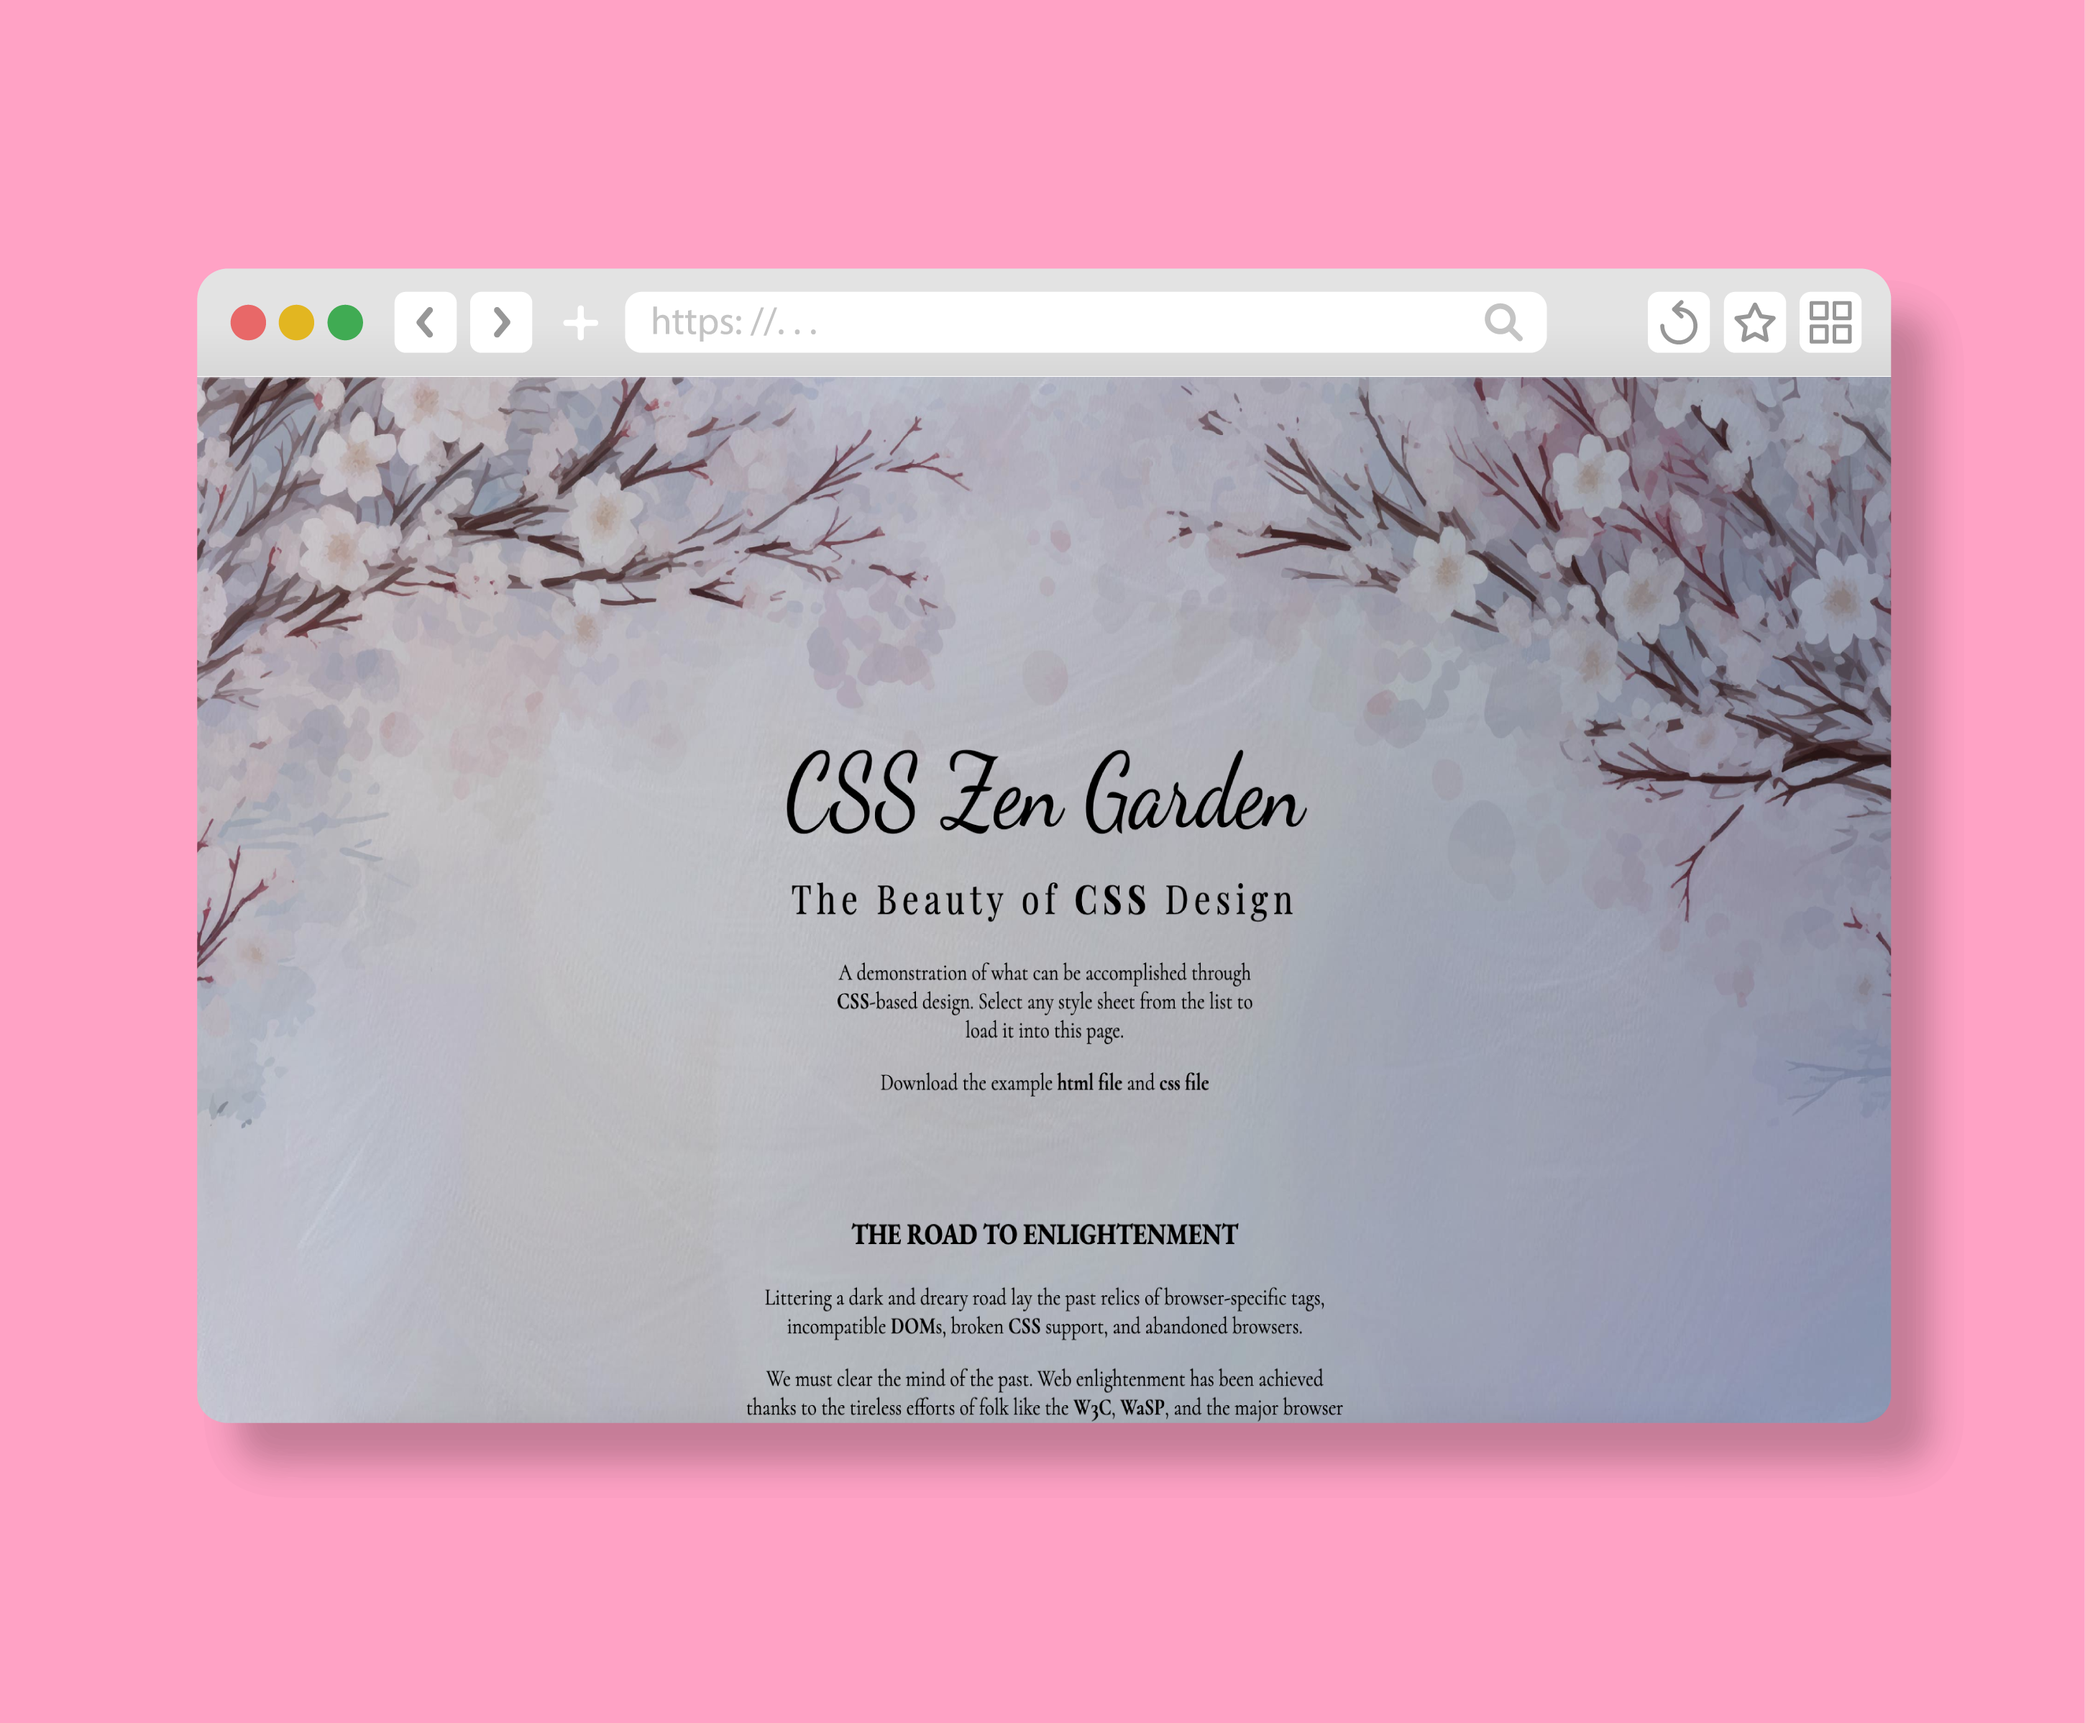
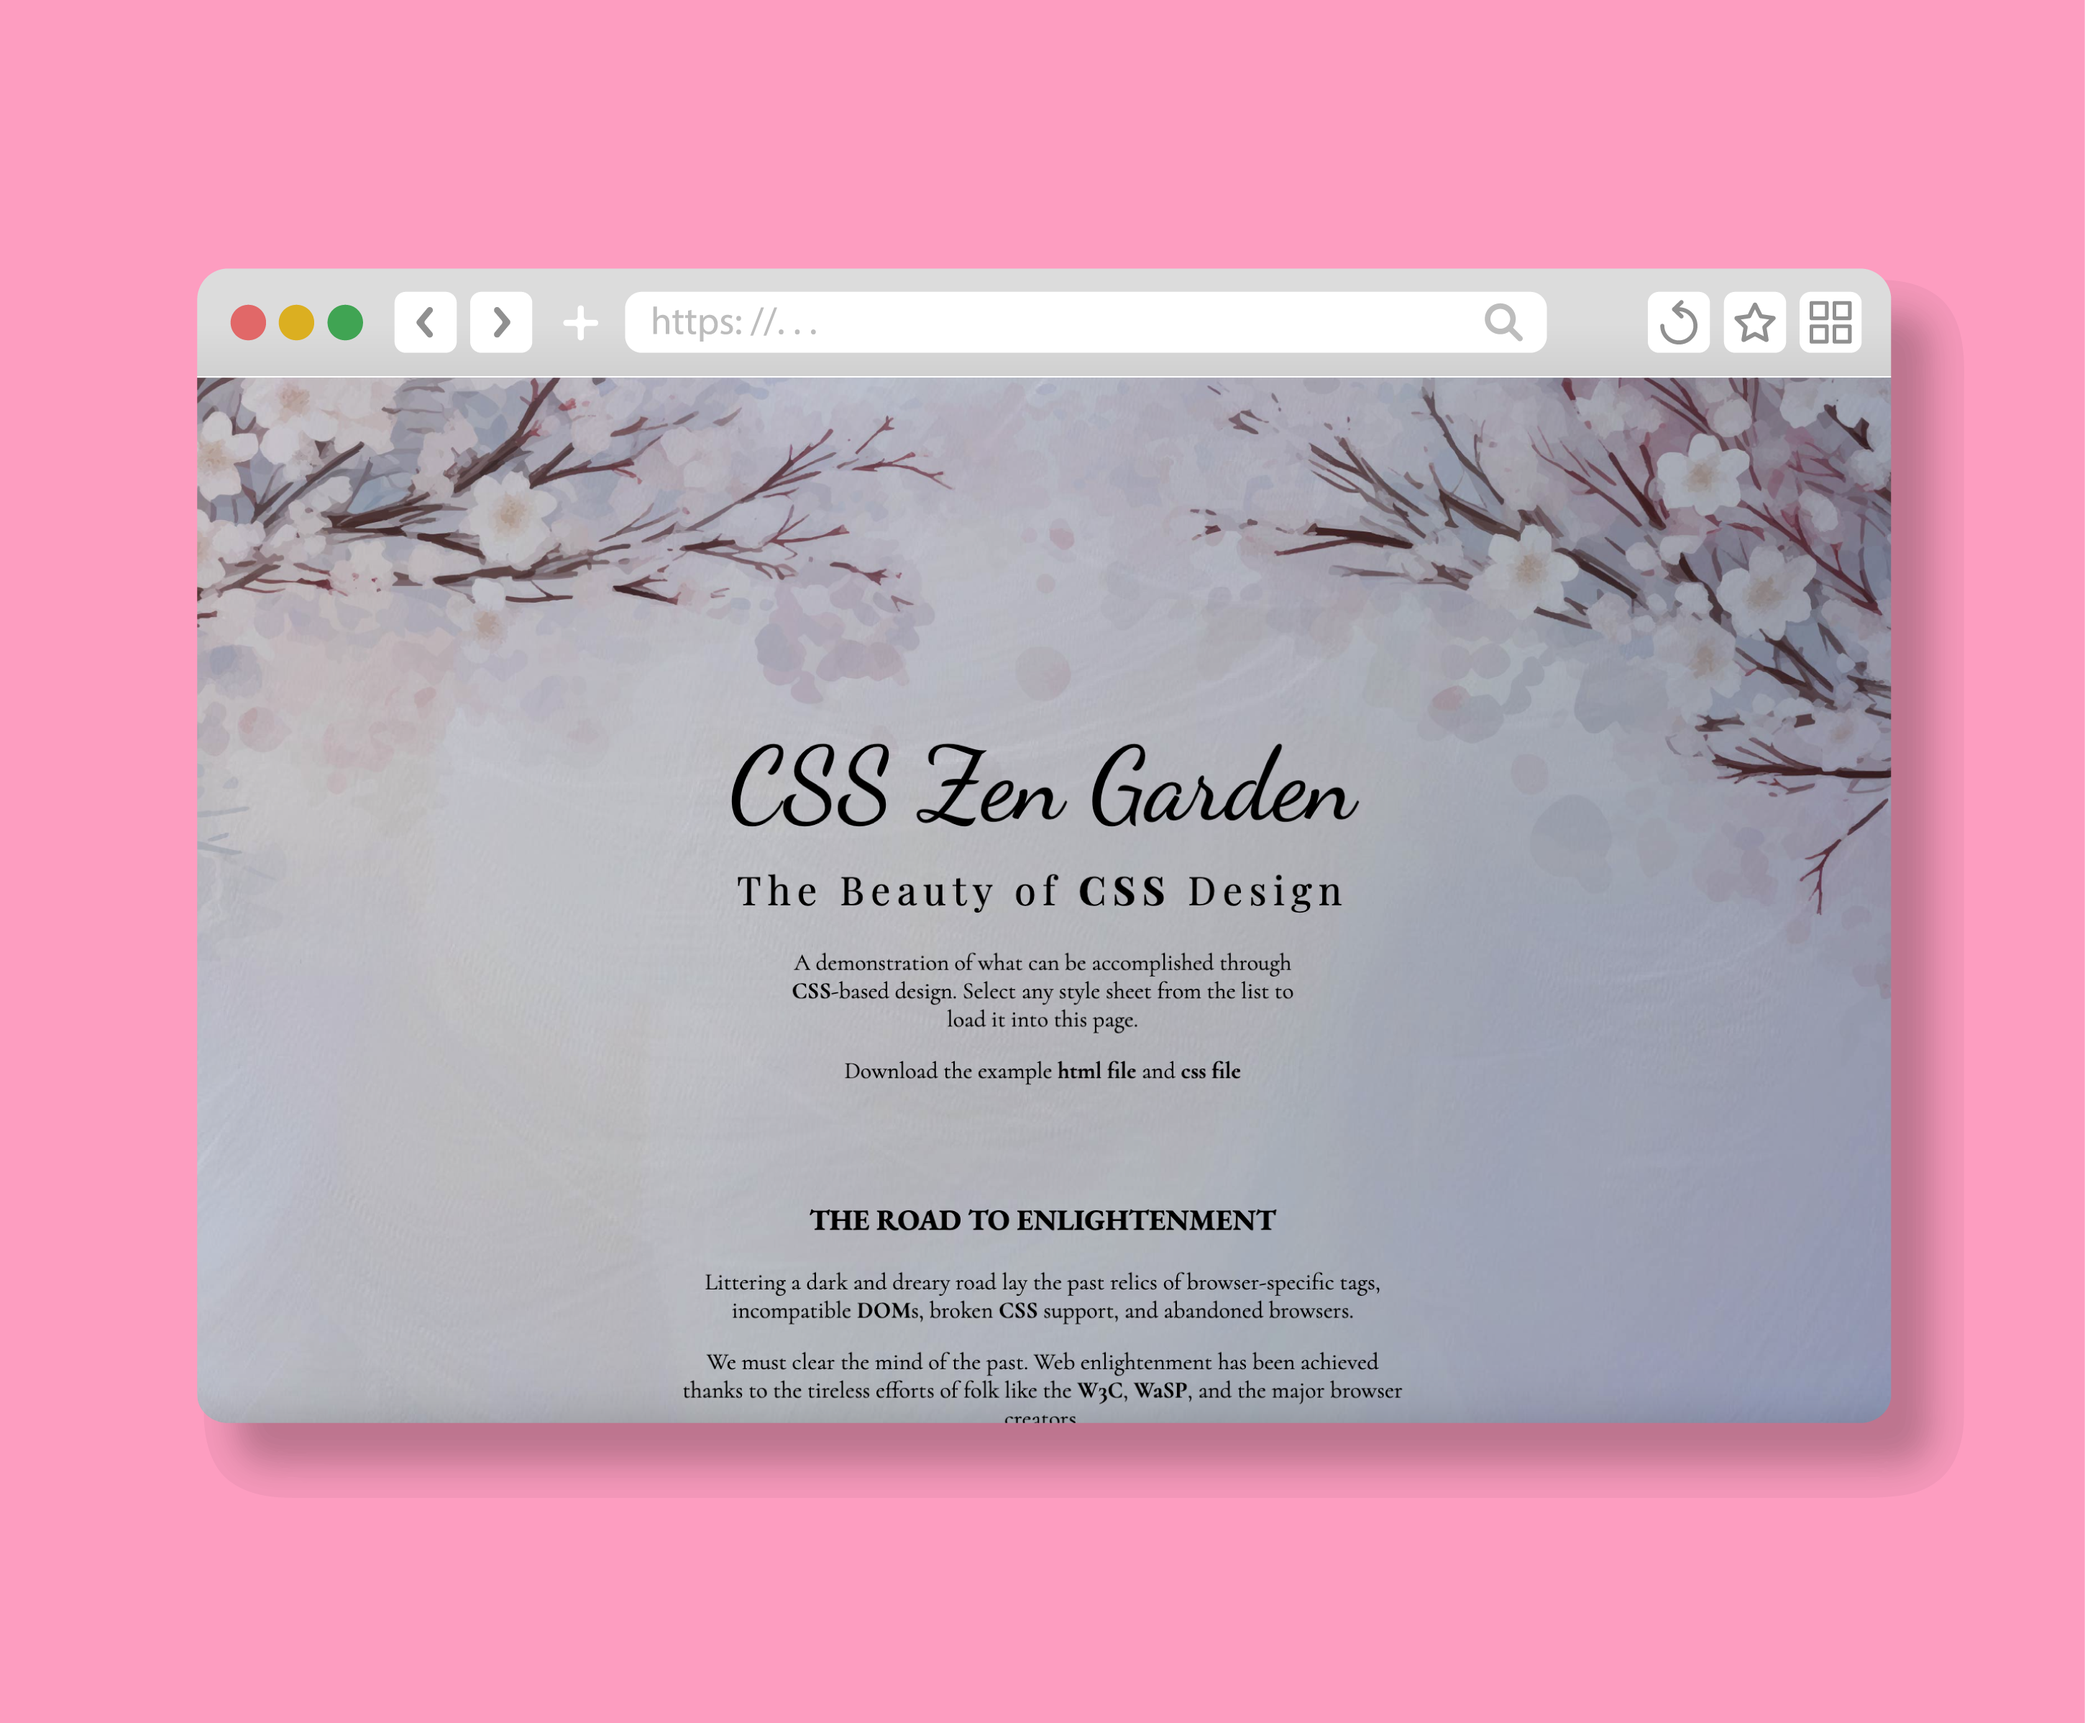
alles werkt nu ook op gsm

diff --git a/style.css b/style.css
@@ -153,6 +153,8 @@ h4{
     opacity: 0;
     transition: opacity 0.3s ease;
     flex-wrap: nowrap;
+    flex-direction: column;
+    gap: 24px;
 }
 
 .project-image:hover .overlay {
@@ -165,7 +167,6 @@ h4{
 }
 
 .about-me-content{
-    margin: 0 70px;
     display: flex;
     justify-content: center;
 }
@@ -304,66 +305,7 @@ h4{
 }
 
 
-/*mobile*/
-@media screen and (max-width: 768px) {
-    body {
-        font-size: 16px;
-    }
-    .nav-menu-desktop{
-        display: none;
-    }
-    .hamburger__nav{
-        display: flex;
-    }
-    .nav-menu-mobile {
-        display: none;
-    }    
-    .flower{
-        width: 50px;
-    }
-    .hamburger__nav{
-        display: flex;
-        justify-content: space-between;
-        padding: 46px 25px 25px 25px;
-        align-items: center;
-    }
-    .fas.fa-bars{
-        font-size: 30px;
-        color: #333333;
-    }
-    .container {
-        padding: 100px 0;
-    }
-    h1 {
-        font-size: 80px;
-    }
-    h2 {
-        font-size: 36px;
-        margin: 0 30px 16px 30px;
-    }
-    h3 {
-        font-size: 24px;
-        margin: 10px 0;
-    }
-    .projects {
-        grid-template-columns: 1fr;
-        padding: 64px 0;
-        width: 90%;
-    }
-    .project-image {
-        height: 300px;
-    }
-    .about-me-content p {
-        font-size: 20px;
-        width: 90%;
-    }
-    .skills p {
-        font-size: 24px;
-    }
-    .skills-wrapper {
-        animation-duration: 5s;
-    }
-}
+
 
 /*tablet*/
 @media screen and (max-width: 1024px) {
@@ -404,5 +346,80 @@ h4{
     }
     .overlay span {
         font-size: 16px;
+    }
+}
+
+/*mobile*/
+@media screen and (max-width: 768px) {
+    body {
+        font-size: 16px;
+    }
+    .nav-menu-desktop{
+        display: none;
+    }
+    .hamburger__nav{
+        display: flex;
+    }
+    .nav-menu-mobile {
+        display: none;
+    }    
+    .flower{
+        width: 50px;
+    }
+    .hamburger__nav{
+        display: flex;
+        justify-content: space-between;
+        padding: 46px 25px 25px 25px;
+        align-items: center;
+    }
+    .fas.fa-bars{
+        font-size: 30px;
+        color: #333333;
+    }
+    .container {
+        padding: 40px 16px;
+    }
+    h1 {
+        font-size: 54px;
+    }
+    h2 {
+        font-size: 36px;
+        margin: 0 30px 16px 30px;
+    }
+    h3 {
+        font-size: 24px;
+        margin: 10px 0;
+    }
+    .projects {
+        grid-template-columns: 1fr;
+        padding: 64px 0;
+        width: 90%;
+    }
+    .project-image {
+        height: 300px;
+    }
+    .about-me-content p {
+        font-size: 20px;
+        width: 90%;
+    }
+    .skills p {
+        font-size: 24px;
+    }
+    .skills-wrapper {
+        animation-duration: 5s;
+    }
+    .arrow{
+        width: 40px;
+    }
+    .about-me-content{
+        margin: 0 16px;
+    }
+    .icon{
+        width: 50px;
+        height: 50px;
+        margin: 16px;
+    }
+    .overlay {
+       display: none;
     }
 }

diff --git a/projects/project-4/magic/animation.html b/projects/project-4/magic/animation.html
@@ -6,6 +6,39 @@
     <link rel="stylesheet" href="animation.css">
     <link rel="icon" href="/images/favicon.ico" type="image/x-icon">
     <title>magic</title>
+     <!-- Preload images -->
+     <link rel="preload" href="images/1.png" as="image">
+     <link rel="preload" href="images/2.png" as="image">
+     <link rel="preload" href="images/3.png" as="image">
+     <link rel="preload" href="images/4.png" as="image">
+     <link rel="preload" href="images/5.png" as="image">
+     <link rel="preload" href="images/6.png" as="image">
+     <link rel="preload" href="images/7.png" as="image">
+     <link rel="preload" href="images/8.png" as="image">
+     <link rel="preload" href="images/9.png" as="image">
+     <link rel="preload" href="images/10.png" as="image">
+     <link rel="preload" href="images/11.png" as="image">
+     <link rel="preload" href="images/12.png" as="image">
+     <link rel="preload" href="images/13.png" as="image">
+     <link rel="preload" href="images/14.png" as="image">
+     <link rel="preload" href="images/15.png" as="image">
+     <link rel="preload" href="images/16.png" as="image">
+     <link rel="preload" href="images/17.png" as="image">
+     <link rel="preload" href="images/18.png" as="image">
+     <link rel="preload" href="images/19.png" as="image">
+     <link rel="preload" href="images/20.png" as="image">
+     <link rel="preload" href="images/21.png" as="image">
+     <link rel="preload" href="images/22.png" as="image">
+     <link rel="preload" href="images/23.png" as="image">
+     <link rel="preload" href="images/24.png" as="image">
+     <link rel="preload" href="images/25.png" as="image">
+     <link rel="preload" href="images/26.png" as="image">
+     <link rel="preload" href="images/27.png" as="image">
+     <link rel="preload" href="images/28.png" as="image">
+     <link rel="preload" href="images/29.png" as="image">
+     <link rel="preload" href="images/30.png" as="image">
+     <link rel="preload" href="images/31.png" as="image">
+     <link rel="preload" href="images/32.png" as="image">
 </head>
 <body>
     <img id="changingImage" src="images/1.png" alt="">

diff --git a/projects/project-4/scale/style.css b/projects/project-4/scale/style.css
@@ -23,3 +23,15 @@
      100% { background-position: -10402px 0;}
    }
    
+   @media (max-width: 768px) {
+      .scale {
+          width: 162.5px;  /* Half of the original width */
+          height: 119.5px;  /* Half of the original height */
+          background-size: 5201px 119.5px; /* Scale the background size proportionally */
+      }
+  
+      @keyframes move {
+          0% { background-position: 0 0; }
+          100% { background-position: -5201px 0; } /* Adjust the final background position accordingly */
+      }
+  }

diff --git a/projects/detail.css b/projects/detail.css
@@ -362,4 +362,27 @@ a{
     .project-image-container{
         gap: 20px
     }
+    h1{
+        font-size: 24px;
+    }
+    .skills p {
+        padding: 12px;
+    }
+ 
+}
+
+@media screen and (max-width: 400px){
+    .moodboard-image img{
+        width: 250px;
+    }
+    .wireframe-images img{
+        width: 250px;
+    }
+    .low-fi-prototype-images img, .high-fi-prototype-images img{
+        width: 100px;
+    }
+    .final-product-images img {
+        width: 250px;
+    }
+   
 }

diff --git a/projects/project-4/book/style.css b/projects/project-4/book/style.css
@@ -109,3 +109,29 @@ body{
     }
 }
 
+@media (max-width: 768px) {
+    .cover, 
+    .back{
+        height: 60px;
+        width: 50px;
+    }
+
+    .cover::before,
+    .cover::after {
+        font-size: 120px;
+        top: 25px;
+    }
+
+    .cover::before{
+        left: 55px; 
+    }
+
+    .cover::after{
+        left: -120px; 
+    }
+
+    .page, .last-page{
+        height: 50px;
+        width: 40px;
+    }
+}

diff --git a/projects/project-4/magic/animation.css b/projects/project-4/magic/animation.css
@@ -67,3 +67,8 @@ img#changingImage {
     animation: changeImageSrc 1.5s forwards;
 }
 
+@media (max-width: 768px) {
+    img#changingImage {
+        width: 200px;
+    }
+}

diff --git a/projects/project-4/home/style.css b/projects/project-4/home/style.css
@@ -224,3 +224,4 @@ body {
       background-color: #0f0f24;
   }
 }
+
